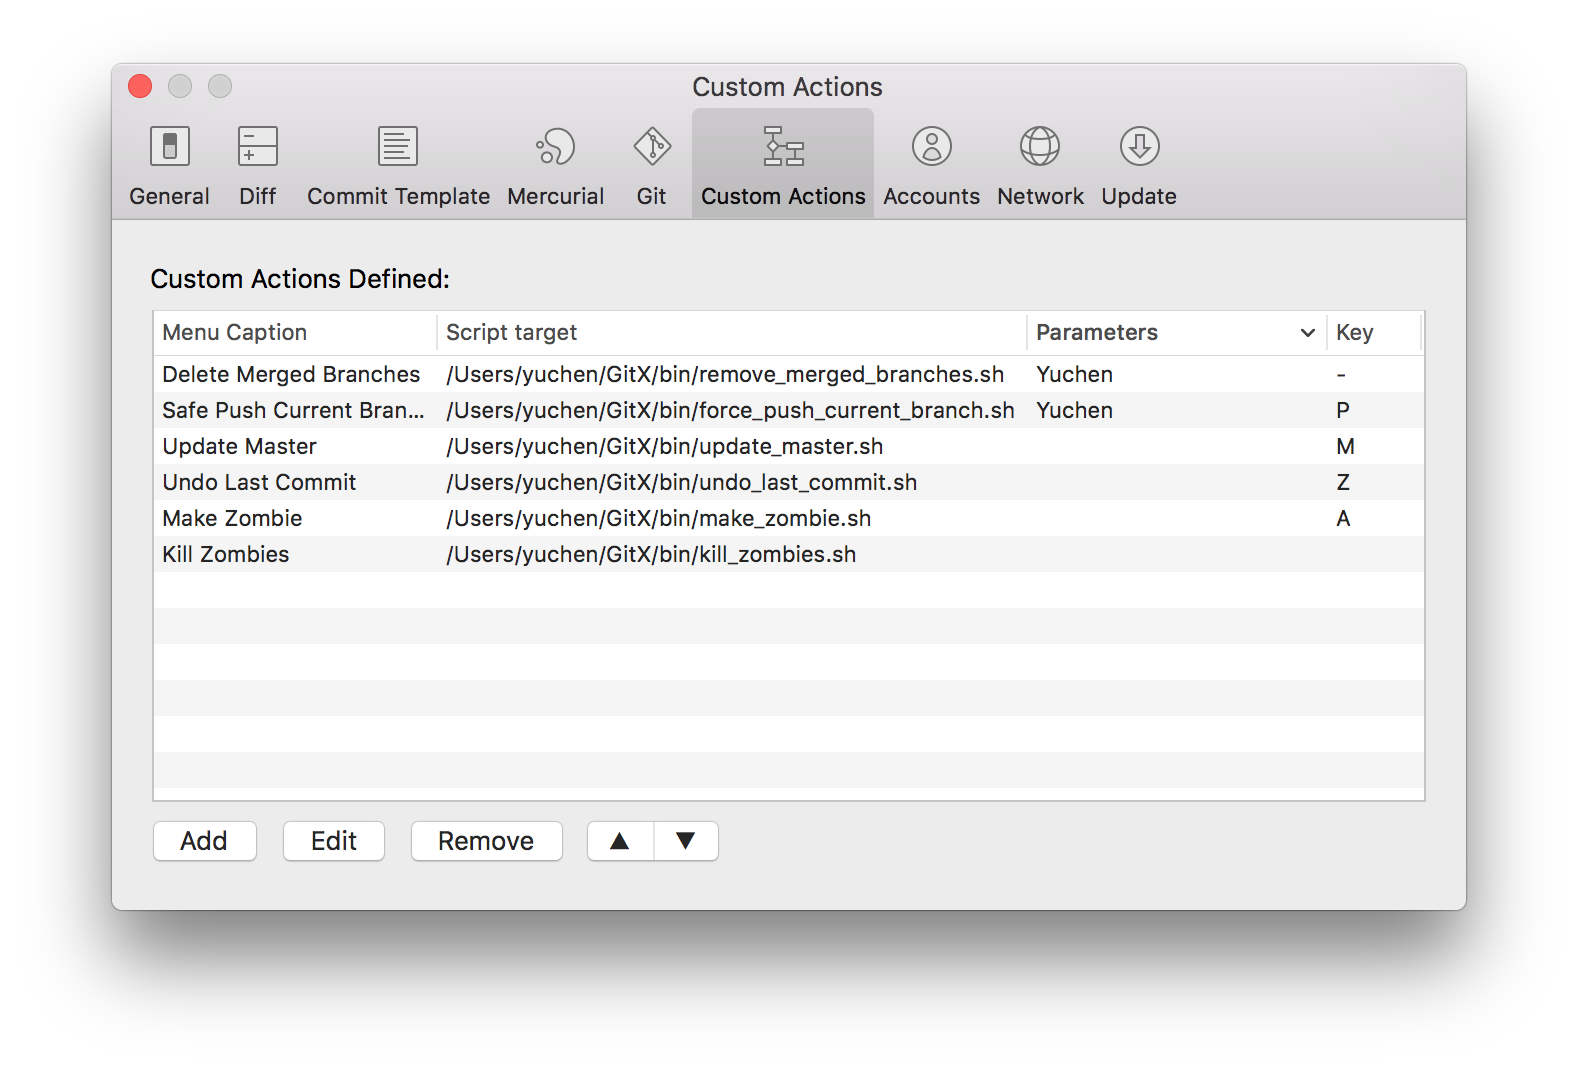
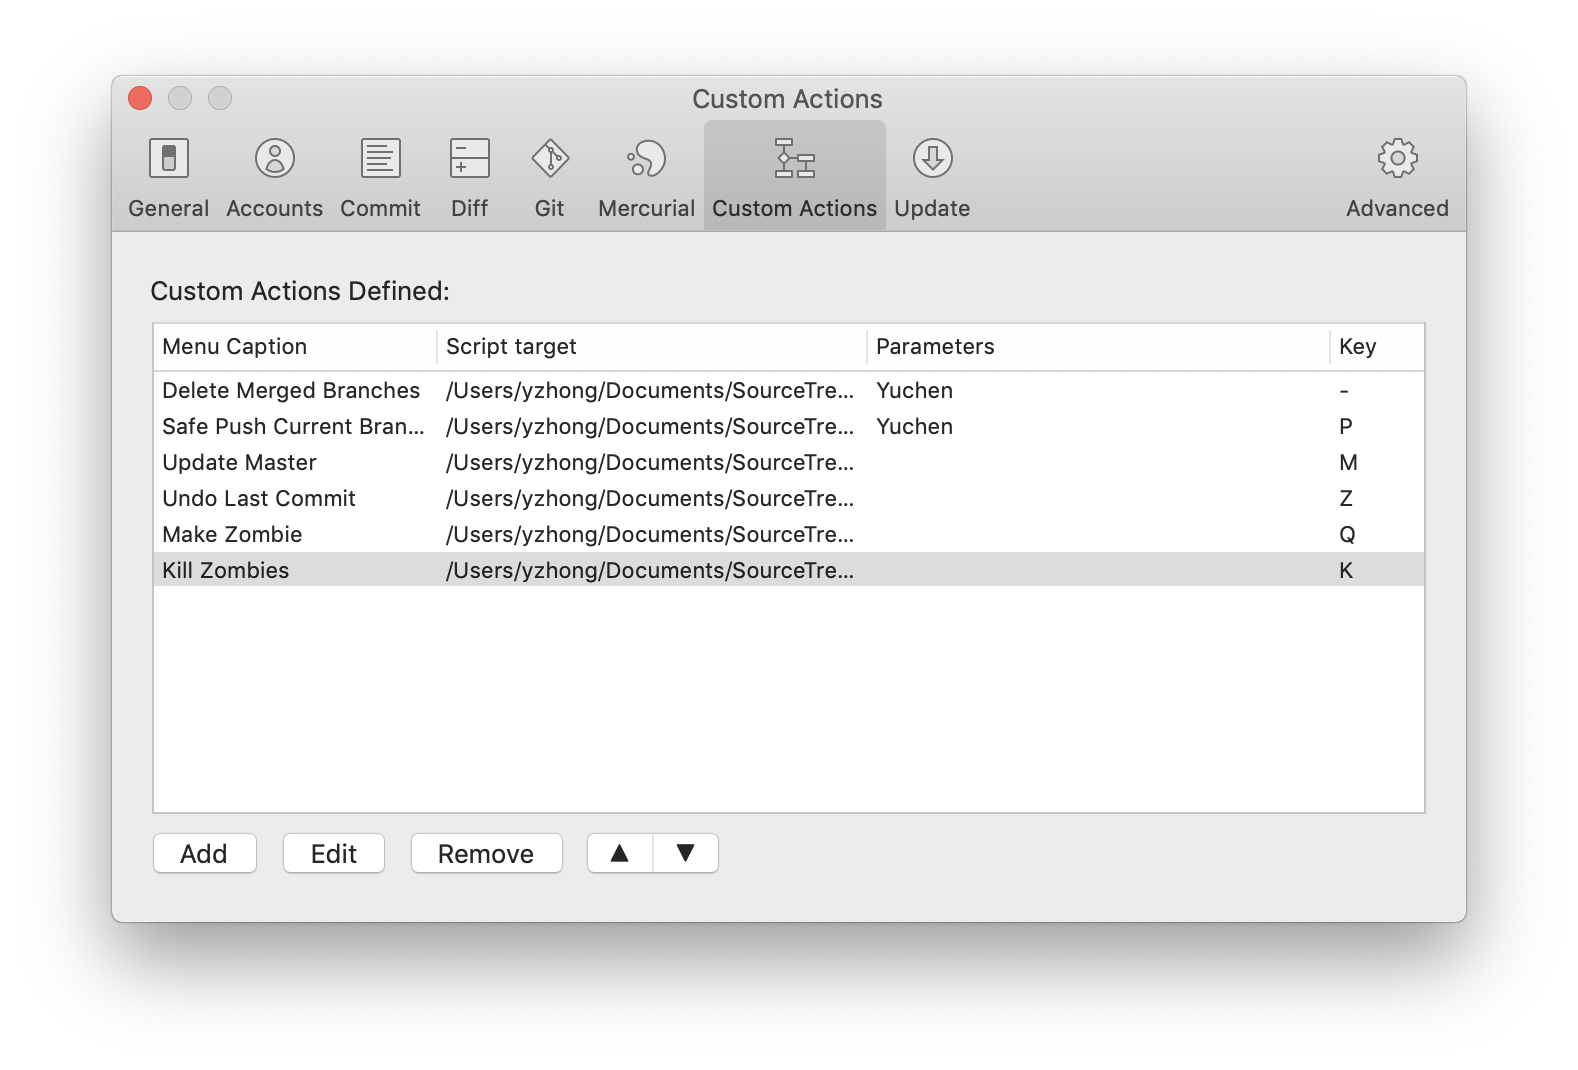
Update readme

diff --git a/README.md b/README.md
@@ -40,6 +40,7 @@ Rename the current branch to `zombie/YYYY-MMM-DD/HH-MM-SS/{Current Branch Name}`
 Zombie branches that are older than 1 month will be deleted. 
 
 * Script: `kill_zombies.sh`
+* Recommended shortcut: <kbd>fn</kbd> + <kbd>K</kbd>
 
 ## Safe Force Push Current Branch To Remote
 
@@ -52,18 +53,17 @@ You can enable force push from SourceTree directly.
 
 However, force push is a dangerous operation since it will overwrite the history in the remote. When you make a mistake, then you'll lose your changes and there is no going back. This script will check if the remote branch has diverged from the local branch; if it is, then a zombie branch will be created in the remote so that you won't lost any of the changes. 
 
-Force push is a handy to keep the commit history clean. This feature is especially useful when being used along with `git amend` in SourceTree when you have some small changes that you just want to into the last commit. 
+Force push is a handy to keep the commit history clean. This feature is especially useful when being used along with `git amend` in SourceTree when you have some small changes that you just want to amende to the last commit. 
 
 <p align="center">
 <img src="images/amend.png"/>
 </p>
 
-
 By default, this script will push to `origin` remote. But you can specify your remote name in the parameter. 
 
 * Script: `safe_push_current_branch.sh`
 * Parameter: remote name (optional)
-* Recommended shortcut: <kbd>fn</kbd> + <kbd>F</kbd>
+* Recommended shortcut: <kbd>fn</kbd> + <kbd>P</kbd>
 
 ## Undo Last Commit
 
@@ -75,6 +75,10 @@ You can call this script multiple time to undo multiple commits.
 
 * Script: `undo_last_commit.sh`
 * Recommended shortcut: <kbd>fn</kbd> + <kbd>Z</kbd>
+
+This is a similar idea with `git stash`, however, I prefer seeing everything in my tree :)
+
+> Use **git stash** when you want to record the current state of the working directory and the index, but want to go back to a clean working directory. The command saves your local modifications away and reverts the working directory to match the HEAD commit. [reference](https://git-scm.com/docs/git-stash)
 
 ## Update Branches
 
